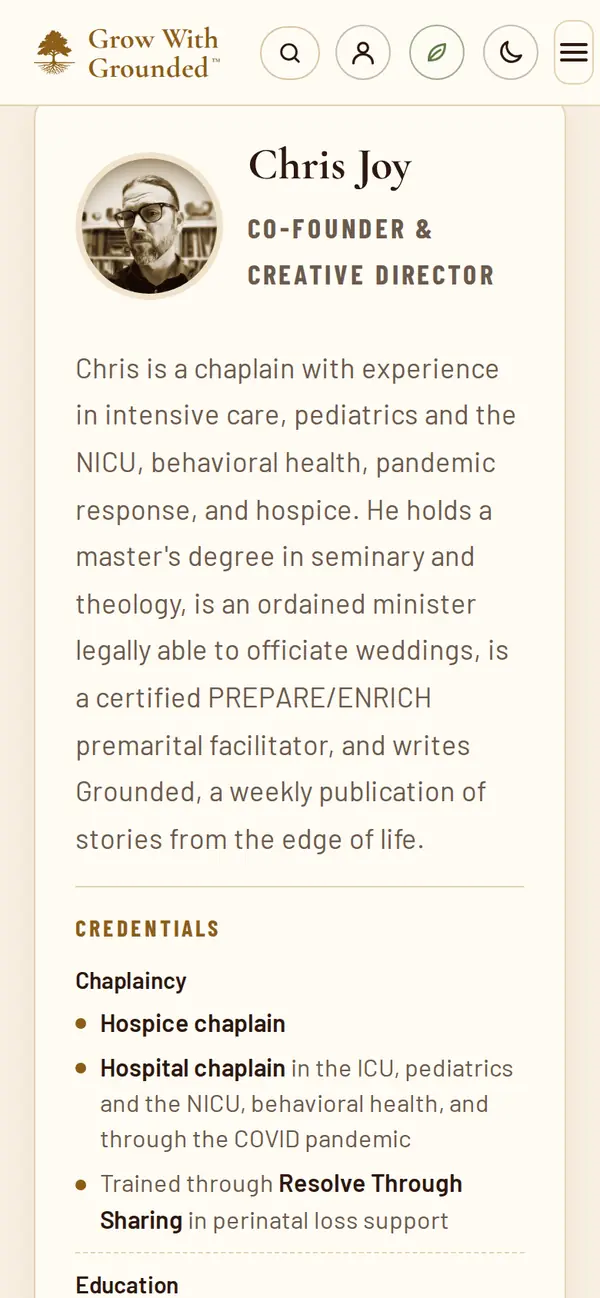
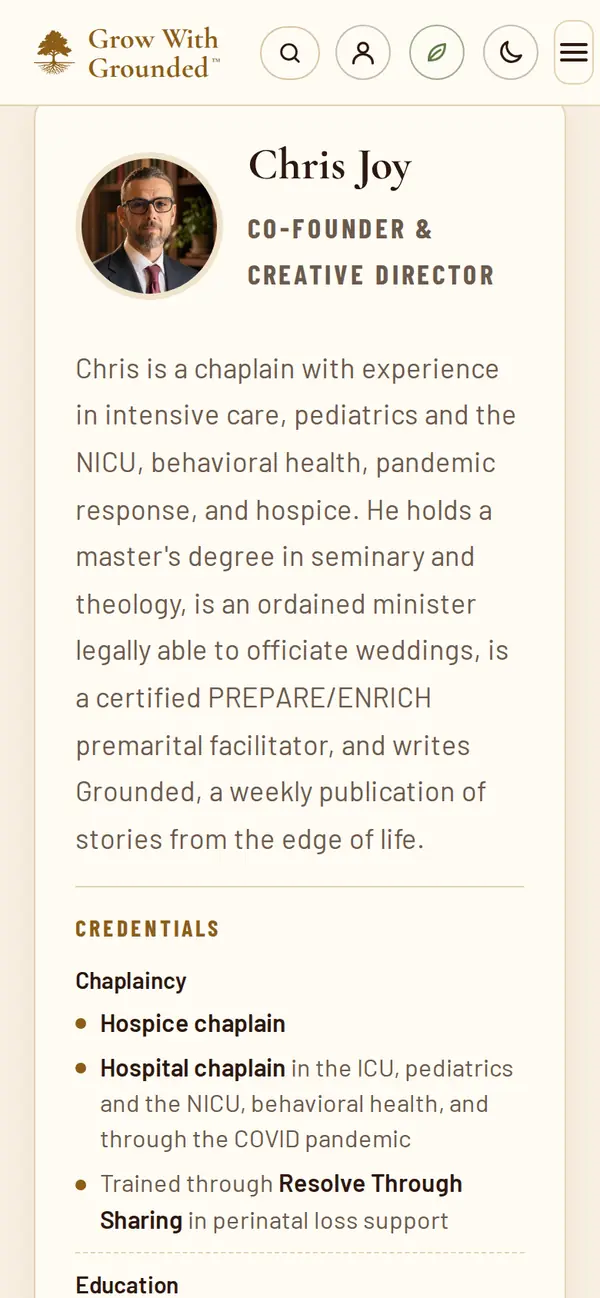
BLD 829: Chris's new headshot everywhere it shows
Claude-Session: https://claude.ai/code/session_01WcZgsAiFdTphwpdYq1mWZF

Changed region(s): [[0.12, 0.1233, 0.36, 0.2465]]

diff --git a/about.html b/about.html
@@ -120,7 +120,7 @@
         <details><summary>Read more</summary><p>Kayti began her career teaching physical education and yoga, including a conflict resolution program for students. For a decade she volunteered weekly in local schools, leading mentorship groups alongside school counselors. She spent seven years as an end-of-life caregiver for her family, working closely with nurses and physicians, and has led ongoing yoga, meditation, and breathwork sessions for adults. As an activities coordinator and lead direct support professional, she worked with youth in state care living in group homes, many carrying significant trauma and behavioral needs. She designed daily one-on-one and group activities, adapting each session to what a young person needed that day, and became a trusted, steady presence for kids others found hard to reach. She is a trained mandated reporter for youth and adults.</p></details>
       </article>
       <article class="card founder">
-        <div class="founder-head"><img src="chris.jpg" alt="Chris Joy" loading="lazy"><div><h3>Chris Joy</h3><p class="founder-title">Co-founder &amp; Creative Director</p></div></div>
+        <div class="founder-head"><img src="chris.jpg?v=b829" alt="Chris Joy" loading="lazy"><div><h3>Chris Joy</h3><p class="founder-title">Co-founder &amp; Creative Director</p></div></div>
         <p>Chris is a chaplain with experience in intensive care, pediatrics and the NICU, behavioral health, pandemic response, and hospice. He holds a master's degree in seminary and theology, is an ordained minister legally able to officiate weddings, is a certified PREPARE/ENRICH premarital facilitator, and writes Grounded, a weekly publication of stories from the edge of life.</p>
         <div class="cred"><h4>Credentials</h4><div class="cred-group"><h5>Chaplaincy</h5><ul><li><b>Hospice chaplain</b></li><li><b>Hospital chaplain</b> in the ICU, pediatrics and the NICU, behavioral health, and through the COVID pandemic</li><li>Trained through <b>Resolve Through Sharing</b> in perinatal loss support</li></ul></div><div class="cred-group"><h5>Education</h5><ul><li><b>Four units of Clinical Pastoral Education</b></li><li><b>MA in Biblical and Theological Studies</b>, Western Seminary</li><li><b>Certified PREPARE/ENRICH premarital facilitator</b></li></ul></div><div class="cred-group"><h5>Ceremonies</h5><ul><li><b>Ordained</b> and legally able to officiate in Minnesota</li></ul></div><div class="cred-group"><h5>Writing and Community</h5><ul><li>Writes <a class="text-link" href="https://chri5j0y.substack.com" target="_blank" rel="noopener">Grounded</a> on Substack</li><li>Founder of <b>For Love Of People</b></li></ul></div></div>
         <details><summary>Read more</summary><p>Before chaplaincy, Chris served as an elder and youth pastor in a non-denominational church and spent twenty years in graphic design and print production, experience he now brings to the design of Grow With Grounded's resilience tools, open to everyone, with everything kept on your own device, including Maple, Aspen, Pine, Birch, Oak, Sequoia, Willow, and The Grove. On a behavioral health unit, he led daily meditations for inpatients and weekly sessions in intensive outpatient care, using crystal sound bowls, body scan meditations, and mindfulness practices, along with grief groups and workshops. He is trained through Resolve Through Sharing to support parents, families, and caregivers through pregnancy and infant loss. Ordained through the Universal Life Church, he leads weddings, blessings, and memorial services for people of all faith traditions and everything in-between.</p></details>

diff --git a/shared/gg-print.js b/shared/gg-print.js
@@ -467,7 +467,7 @@
     side += '<div class="th-card th-watch" data-qr="watch"><div class="th-qr" data-url="' + esc(n.watch.url) + '">' + thQR(n.watch.url, 'QR code: ' + n.watch.title) + '</div><div><h3 class="serif">' + esc(n.watch.title) + '</h3><p>' + esc(n.watch.line) + '</p><span>' + esc(n.watch.short) + '</span></div></div>';
     if (n.help) side += '<div class="th-card th-help"><h3 class="serif">' + esc(n.help.h) + '</h3><ul>' + n.help.li.map(function (x) { return '<li>' + esc(x) + '</li>'; }).join('') + '</ul></div>';
     side += '</aside>';
-    var who = '<div class="th-who"><span class="th-pics"><img src="' + A('/kayti-joy-avatar.jpg') + '" alt="Kayti Joy"><img src="' + A('/chris.jpg') + '" alt="Chris Joy"></span><div><h3 class="serif">' + esc(n.who.h) + '</h3><p>' + esc(n.who.p) + '</p><p class="th-contact">' + esc(n.who.contact) + '</p></div><img class="th-logo" src="' + A('/favicon.svg') + '" alt=""></div>';
+    var who = '<div class="th-who"><span class="th-pics"><img src="' + A('/kayti-joy-avatar.jpg') + '" alt="Kayti Joy"><img src="' + A('/chris.jpg?v=b829') + '" alt="Chris Joy"></span><div><h3 class="serif">' + esc(n.who.h) + '</h3><p>' + esc(n.who.p) + '</p><p class="th-contact">' + esc(n.who.contact) + '</p></div><img class="th-logo" src="' + A('/favicon.svg') + '" alt=""></div>';
     return '<div class="th th-' + n.kind + (n.title.length > 24 ? ' th-long' : '') + '" style="--c:' + n.color + ';--ink2:' + n.ink + '">' + hero + '<div class="th-body" data-fit>' + main + side + '</div>' + who + '<div class="th-foot">' + esc(n.foot) + '</div></div>';
   }
   var TH_CSS = [
@@ -577,7 +577,7 @@
       };
       return Promise.all([
         ggPdfImage(A('/shared/heroes/' + tr + '-wide.webp'), 1224, 300, { x: (HX[tr] == null ? 50 : HX[tr]) / 100, y: 0.58, paint: shade, q: 0.84 }),
-        ggPdfImage(A('/kayti-joy-avatar.jpg'), 176, 176, { y: 0.35 }), ggPdfImage(A('/chris.jpg'), 176, 176, { y: 0.35 })
+        ggPdfImage(A('/kayti-joy-avatar.jpg'), 176, 176, { y: 0.35 }), ggPdfImage(A('/chris.jpg?v=b829'), 176, 176, { y: 0.35 })
       ]).then(function (x) { return { hero: x[0], pics: x[1] && x[2] ? [x[1], x[2]] : null }; });
     });
     return ART[tr];

diff --git a/field-guide/index.html b/field-guide/index.html
@@ -661,7 +661,7 @@ body.cd-noscroll{overflow:hidden;}
 <script src="../read.js?v=b813"></script>
 <script src="../shared/gg-sources.js?v=b809"></script>
 <script src="../shared/gg-learn.js?v=b828"></script>
-<script src="../shared/gg-print.js?v=b803"></script>
+<script src="../shared/gg-print.js?v=b829"></script>
 <script src="../shared/grove-scene.js?v=w2k"></script>
 <script src="../shared/gg-grove-row.js?v=b770"></script>
 <script src="qr.js?v=b782"></script>
@@ -2594,7 +2594,7 @@ function certAct(a, v){
   return false;
 }
 // Certificates, guide posters, and flyers (shared/gg-print.js), loaded the first time one is asked for.
-function fgPrint(){ return new Promise(ok => { if (window.GGPrint) return ok(); const s = document.createElement('script'); s.src = '../shared/gg-print.js?v=b803'; s.onload = s.onerror = () => ok(); document.head.appendChild(s); }); }
+function fgPrint(){ return new Promise(ok => { if (window.GGPrint) return ok(); const s = document.createElement('script'); s.src = '../shared/gg-print.js?v=b829'; s.onload = s.onerror = () => ok(); document.head.appendChild(s); }); }
 // The certificate and two posters for a finished Guide training. tree: maple, aspen, pine, birch, oak, sequoia, willow.
 // GWG BLD 797: printed through the Certificates list, in the Certified Grounded Guide wording.
 function fgGuideCert(tree, st, signed, M, guide){

diff --git a/shared/gg-stories.js b/shared/gg-stories.js
@@ -558,7 +558,7 @@
       } else cEl.innerHTML = invite('A printable card each month for members', 'A line from a Grounded Story and a practice to carry it into your week. Join on Substack to receive your member code.', Cs.map(function (c) { return monthLabel(c.month) + ': ' + c.title; }));
     }
   }
-  var PRINT_JS = '/shared/gg-print.js?v=b803', SOURCES_JS = '/shared/gg-sources.js?v=b809';
+  var PRINT_JS = '/shared/gg-print.js?v=b829', SOURCES_JS = '/shared/gg-sources.js?v=b809';
   function warmPrint() { return need(SOURCES_JS, function () { return !!root.GGSources; }).then(function () { return need(PRINT_JS, function () { return !!root.GGPrint; }); }); }
   function cardModel(id) { var c = cardOf(id), t = ((data() || {}).cards || []).filter(function (x) { return x.id === id; })[0]; if (!c || !t) return null; return { month: t.month, line: c.line, story: c.story, practice: c.practice }; }
   function cardAct(g, id, btn) {

diff --git a/index.html b/index.html
@@ -407,7 +407,7 @@ a.ht-wlc:hover{border-color:var(--gold);}
         <li>Show up</li>
       </ul>
       <p class="indie-line">Grow With Grounded is our own independent practice, here to serve anyone, anywhere.</p>
-      <a class="who-founders" href="about.html"><span class="wf-pics"><img src="kayti-joy-avatar.jpg" alt="" width="44" height="44" loading="lazy"><img src="chris.jpg" alt="" width="44" height="44" loading="lazy"></span><span>Founded by Kayti and Chris Joy</span></a>
+      <a class="who-founders" href="about.html"><span class="wf-pics"><img src="kayti-joy-avatar.jpg" alt="" width="44" height="44" loading="lazy"><img src="chris.jpg?v=b829" alt="" width="44" height="44" loading="lazy"></span><span>Founded by Kayti and Chris Joy</span></a>
       <div><a class="btn btn-primary" href="about.html">About us</a></div>
     </div>
   </div>

diff --git a/shared/gg-learn.js b/shared/gg-learn.js
@@ -1063,7 +1063,7 @@
     });
   }
   function lifeFirst() { try { return !!(window.GGLife && (GGLife.has() || GGLife.gentle())); } catch (e) { return false; } }
-  function needPrint() { return script(url('/shared/gg-print.js?v=b803'), function () { return !!window.GGPrint; }); }
+  function needPrint() { return script(url('/shared/gg-print.js?v=b829'), function () { return !!window.GGPrint; }); }
   // Written pages (GWG BLD 787): shared/learn-pages.js, loaded the first time a page or a track with pages shows.
   function needPages() { return script(url('/shared/learn-pages.js?v=' + V), function () { return !!window.GG_LEARN_PAGES; }); }
   function pageOf(app, id) { var P = ((window.GG_LEARN_PAGES || {})[app]) || []; for (var i = 0; i < P.length; i++) if (P[i] && P[i].id === id) return P[i]; return null; }

diff --git a/grove/app.js b/grove/app.js
@@ -1486,7 +1486,7 @@ function printWhat(id, ciId) {
 }
 function printCert() {
   const K = KW(), go = () => GGPrint.certificate({ tree: 'grove', name: G.name || K.name, title: W('certificate.title', 'Twelve Weeks Together'), body: W('certificate.sub', 'Twelve weeks of growing together: checking in, making a plan, and practicing side by side.'), date: today() });
-  if (window.GGPrint) go(); else loadScript('/shared/gg-print.js?v=b803').then(() => { if (window.GGPrint) go(); else toast('The certificate could not load. Check the connection.'); });
+  if (window.GGPrint) go(); else loadScript('/shared/gg-print.js?v=b829').then(() => { if (window.GGPrint) go(); else toast('The certificate could not load. Check the connection.'); });
 }
 
 /* ---------- Earlier (Family) ---------- */

diff --git a/tools.html b/tools.html
@@ -515,7 +515,7 @@ body.bro-open{overflow:hidden;}
 <script src="site.js?v=b779n"></script>
 <script src="search.js?v=b818" defer></script>
 <script src="nav.js?v=b820" defer></script>
-<script src="/shared/gg-print.js?v=b803" defer></script>
+<script src="/shared/gg-print.js?v=b829" defer></script>
 <script>function ggFlyer(t,k){if(window.GGPrint)GGPrint.flyer(t,k);}</script>
 </body>
 </html>
